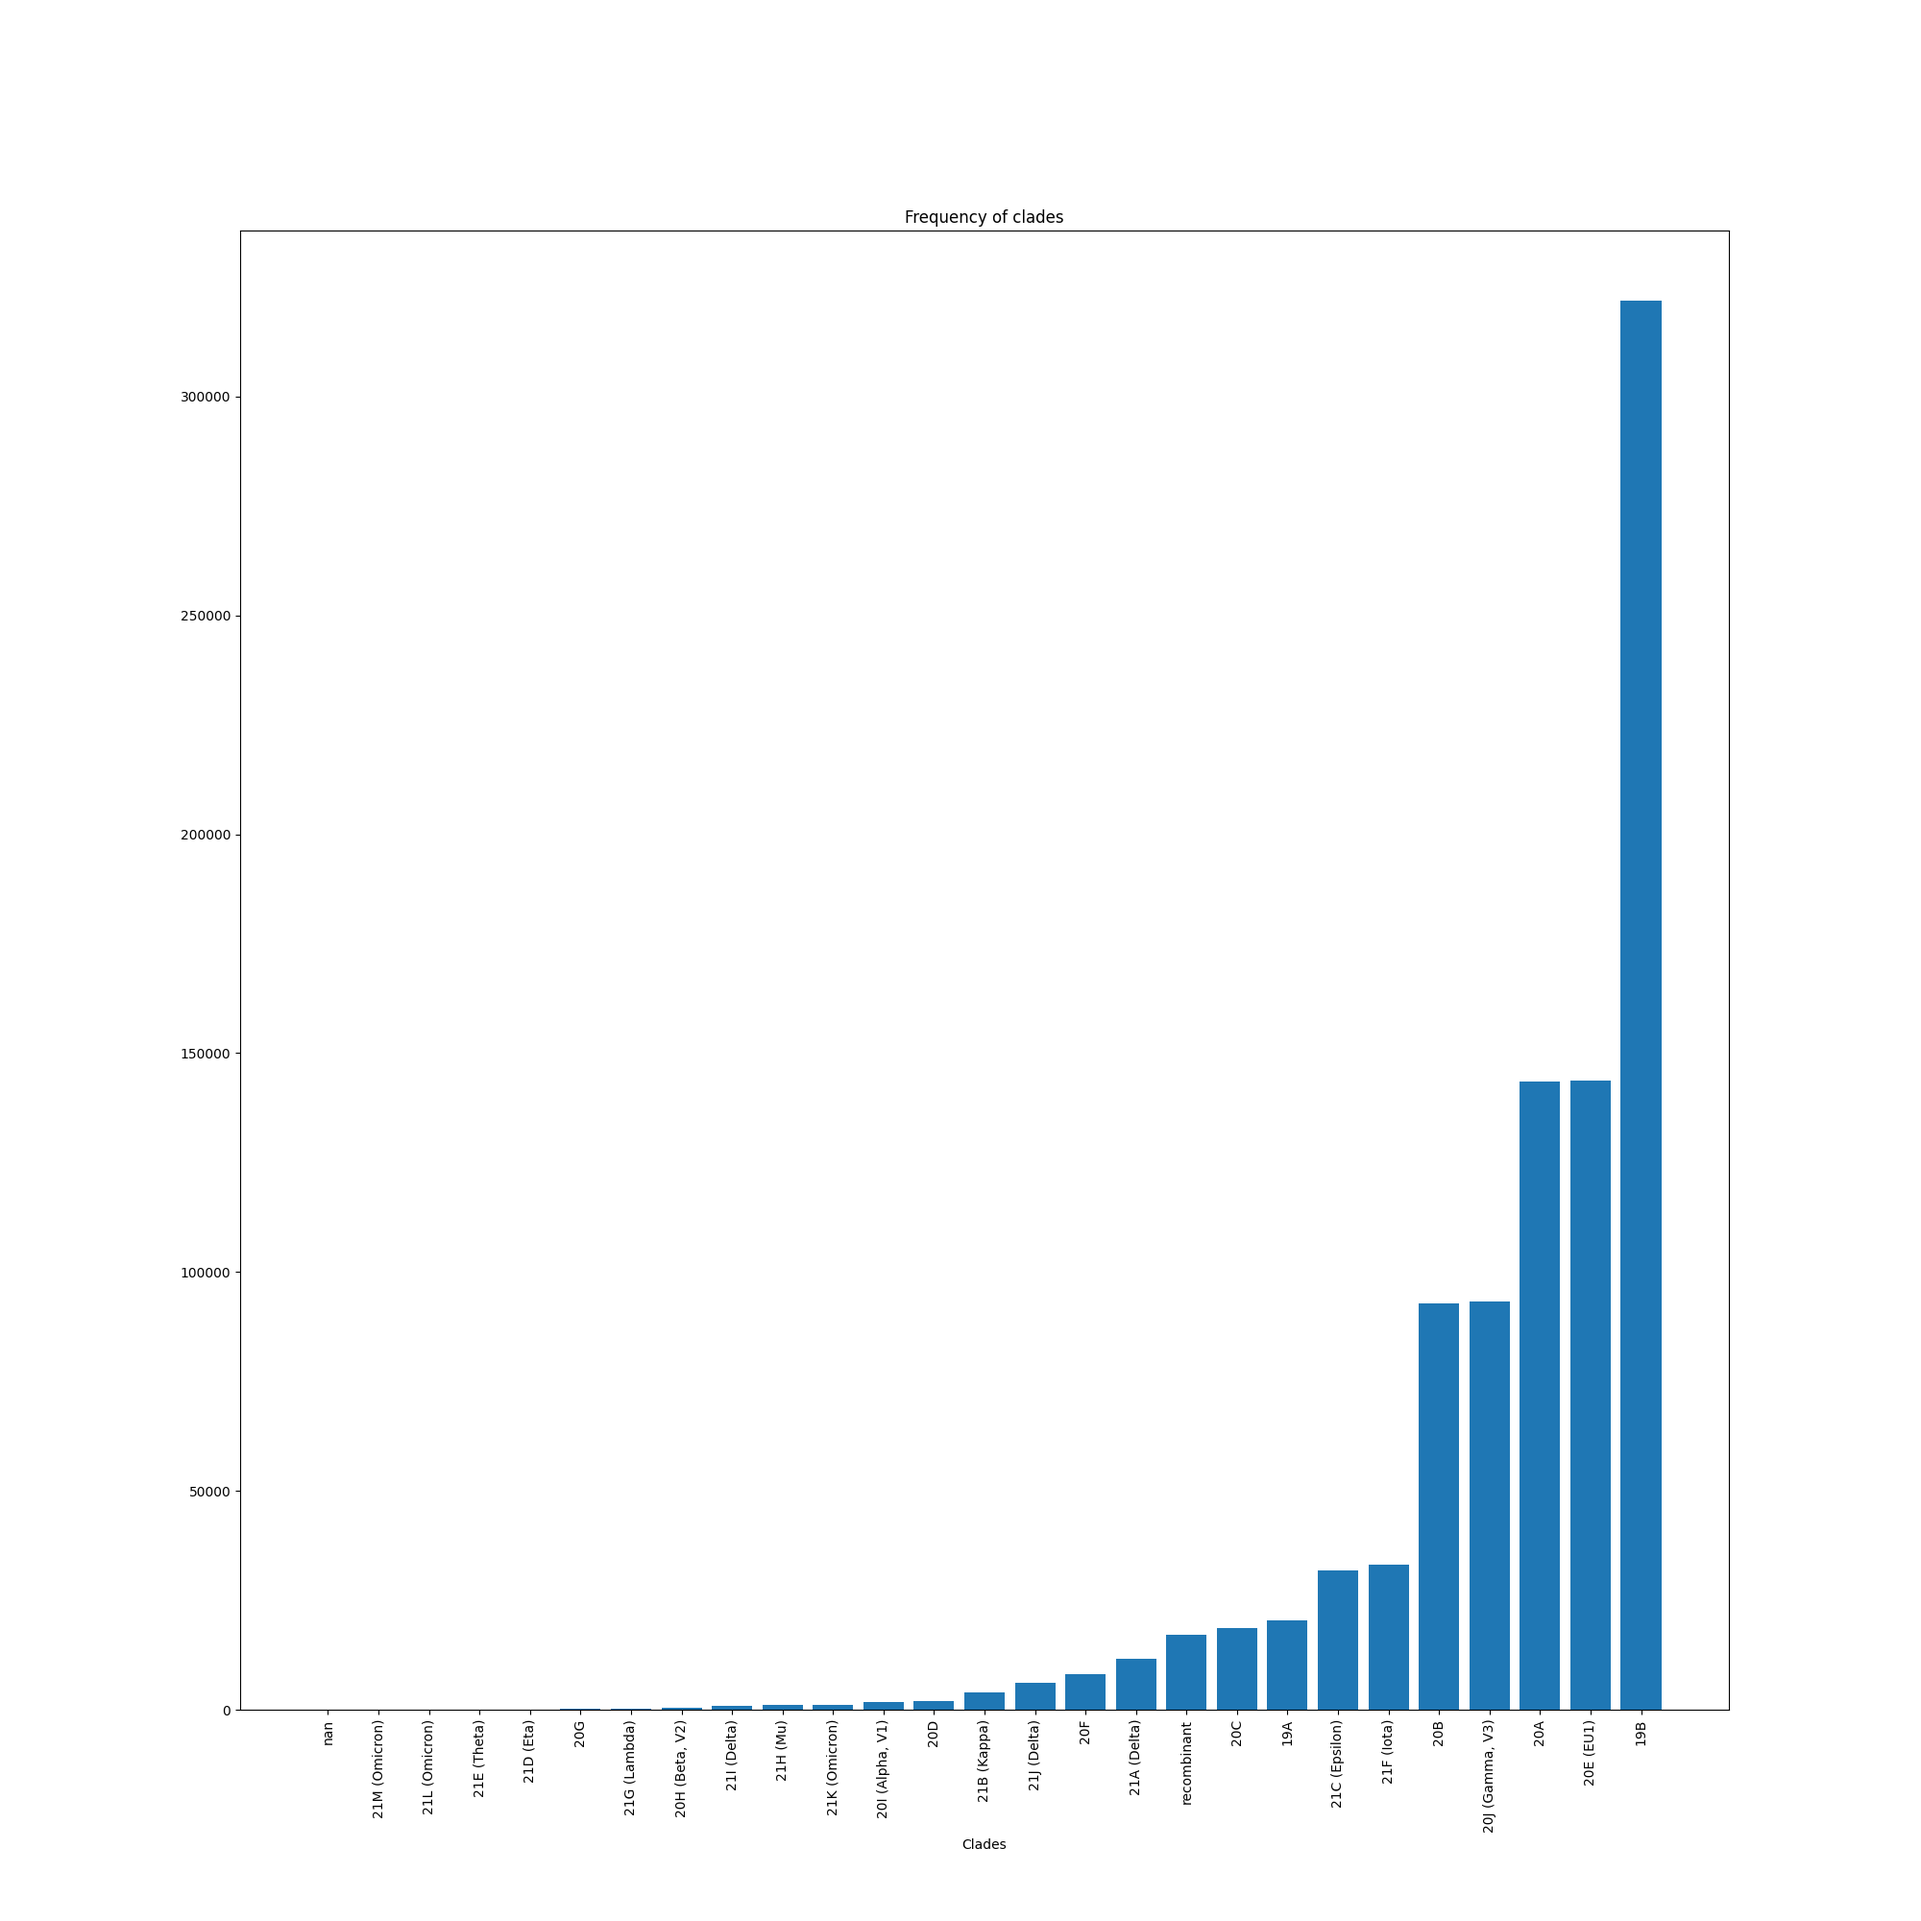
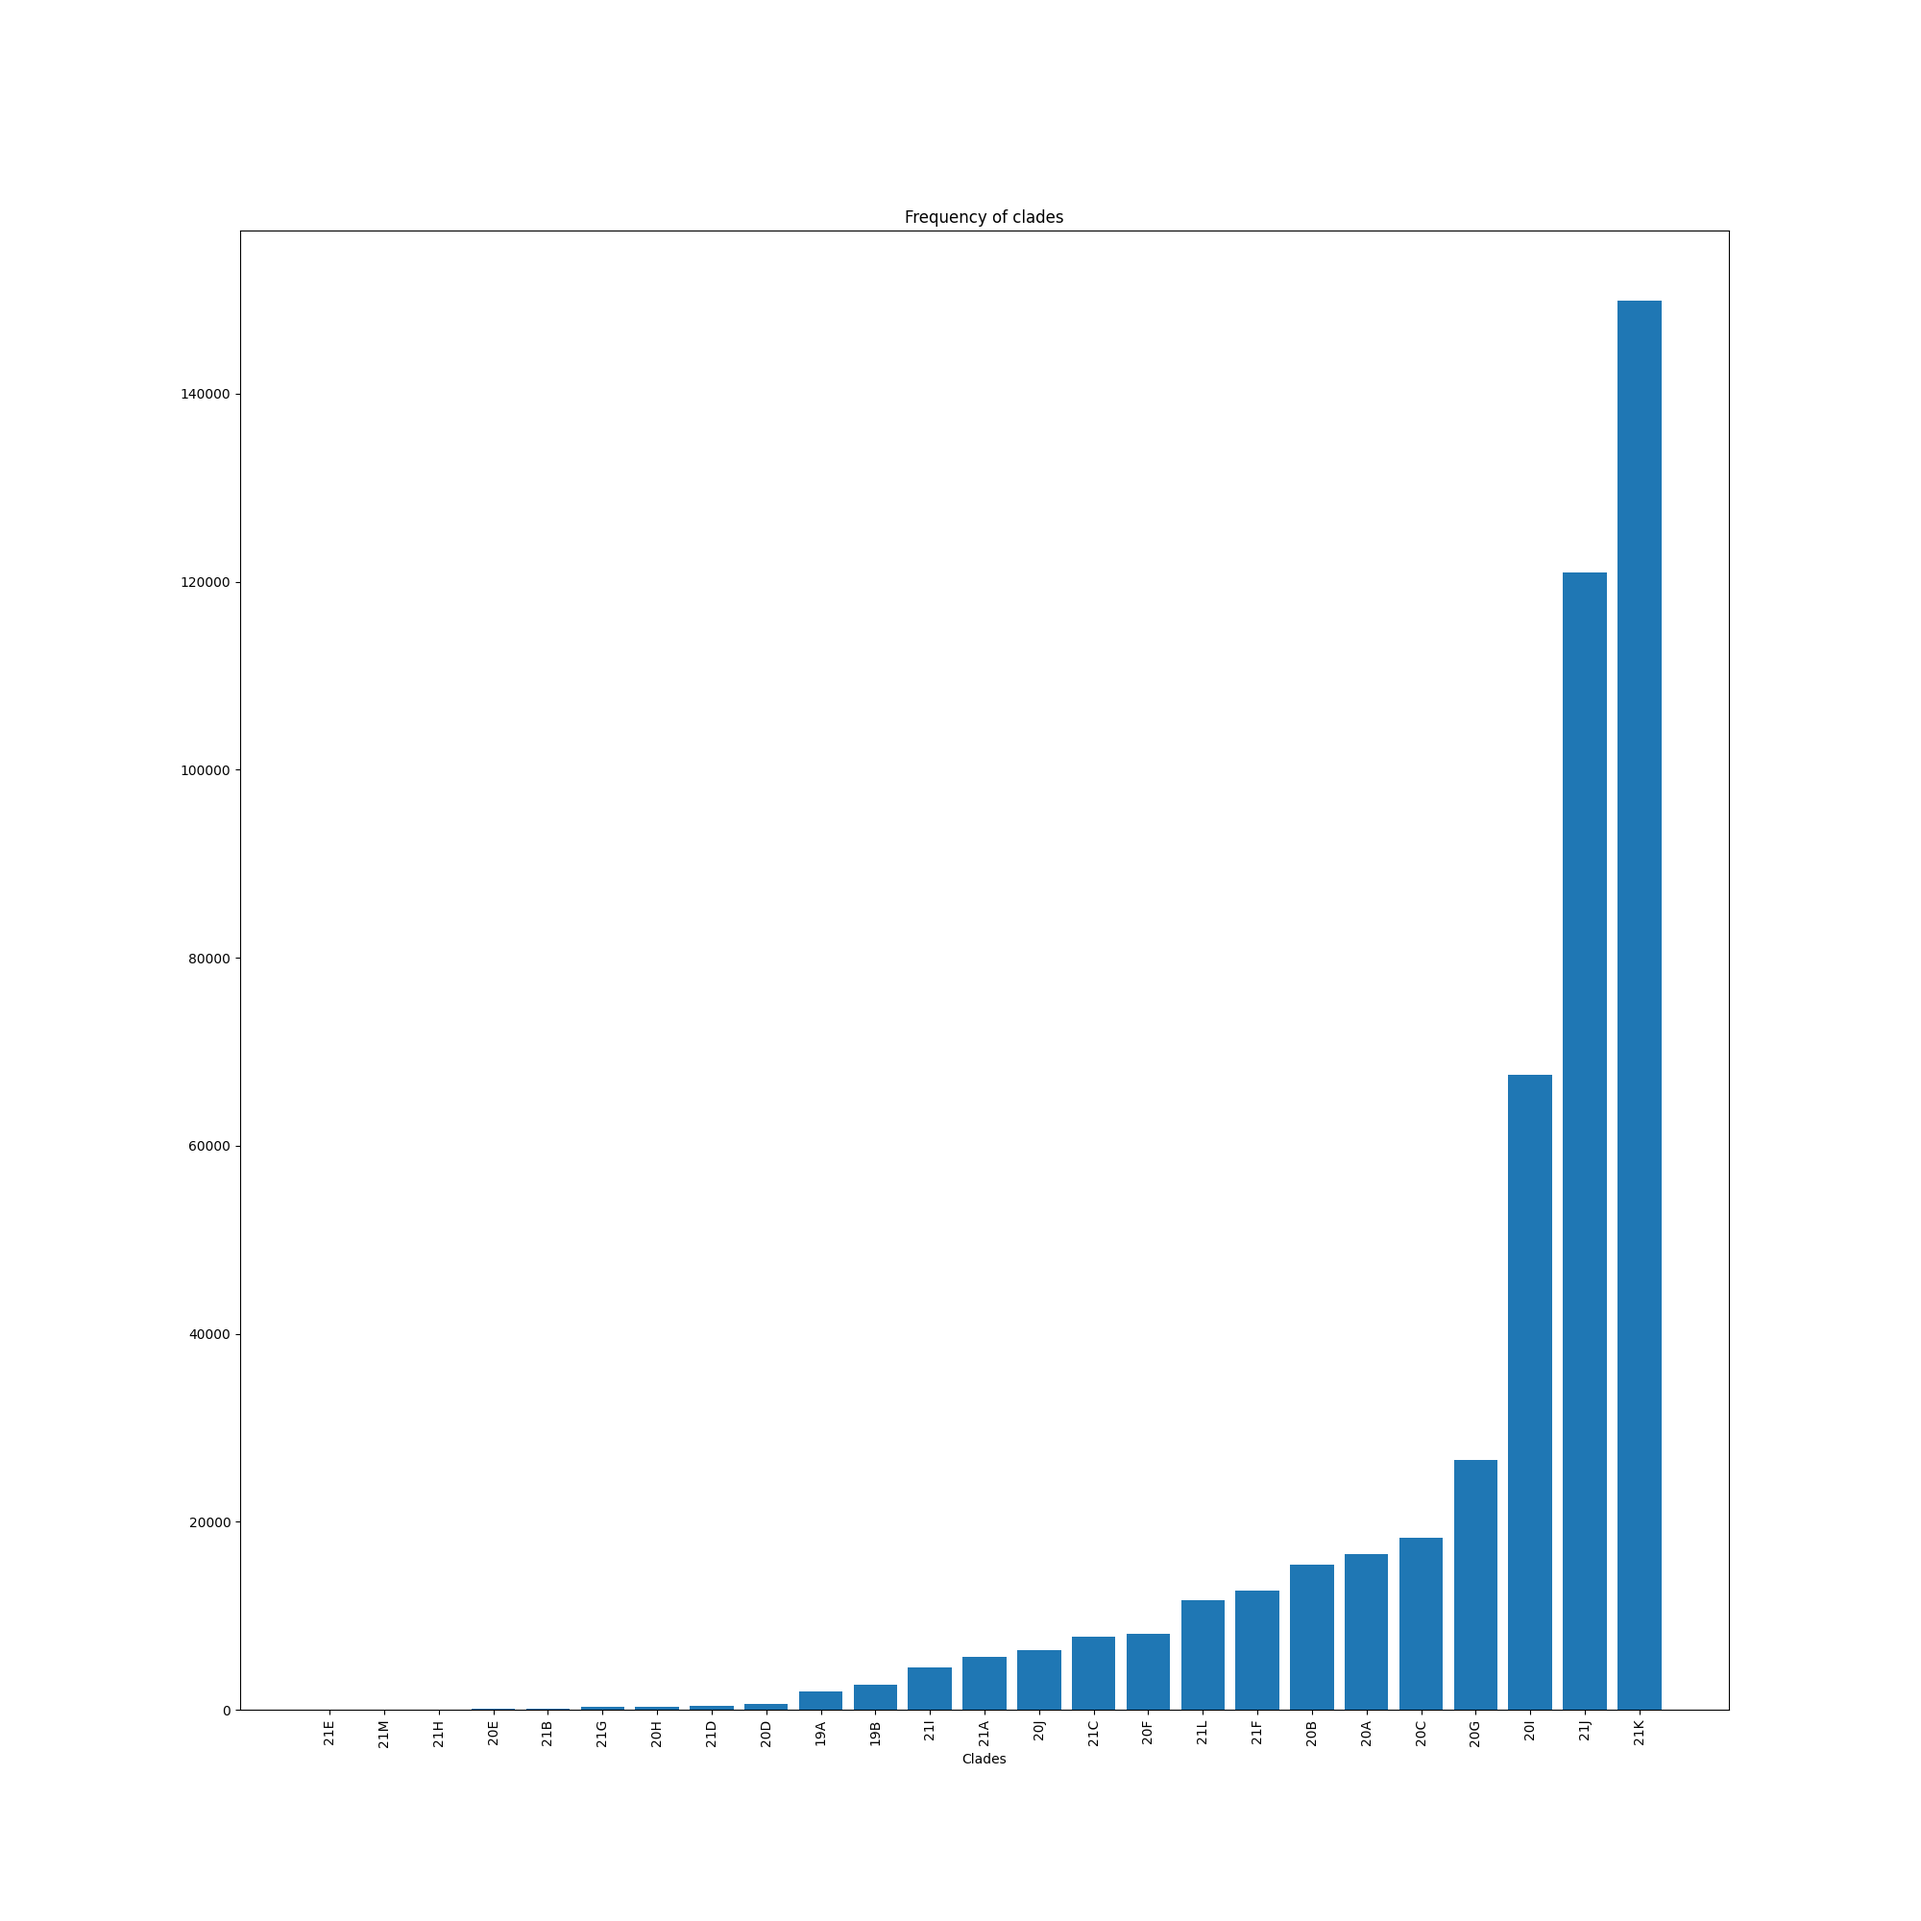
changed names and replot number of clades hist

diff --git a/src/data_preprocessing/create_dataset_files.py b/src/data_preprocessing/create_dataset_files.py
@@ -36,7 +36,7 @@ LIST_OF_CLADES = [
     "21G",
     "21K",
     "21L",
-]  # All clades with number of sequences >18000 were chosen and the rest were droppped
+]
 
 
 def create_merged_data(sequences_file: str, clades_file: str, output_file: str):
@@ -47,6 +47,8 @@ def create_merged_data(sequences_file: str, clades_file: str, output_file: str):
     description_clade_dict = {}
     for line in open(clades_file):
         line_data = line.split("\t")
+        # The strings have an additional pair of quotes which needs to be removed for proper comparision.
+        # The split and indexing operation on the right hand side splits the full clade name (Eg: 21I (Delta)) by space and selects only the alphanumeric clade name
         description_clade_dict[line_data[0].replace('"', "")] = line_data[1].replace('"', "").split(" ")[0]
 
     ds = [description_sequence_dict, description_clade_dict]
@@ -56,11 +58,13 @@ def create_merged_data(sequences_file: str, clades_file: str, output_file: str):
 
     clade_sequence_dict = {}
     for valid_clade in LIST_OF_CLADES:
-        single_clade_sequences = {}
+        single_clade_sequences_dict = {}
         for _seq_description, sequence_clade_tuple in merged_dict.items():
+            # The sequence clade tuple has the sequence in index 0 and the clade in index 1
             if sequence_clade_tuple[1] == valid_clade:
-                single_clade_sequences[sequence_clade_tuple[0]] = ""
-        clade_sequence_dict[valid_clade] = single_clade_sequences
+                # Adding the sequences as keys in a dictionary ensures there is no duplication
+                single_clade_sequences_dict[sequence_clade_tuple[0]] = ""
+        clade_sequence_dict[valid_clade] = single_clade_sequences_dict
 
     for clade, sequences in clade_sequence_dict.items():
         print(f"Number of sequences for clade {clade} after removing duplicates = {len(sequences)}")
@@ -72,8 +76,8 @@ if __name__ == "__main__":
 
     print(Path.cwd())
     # Paths
-    clade_filepath = f"{Path.cwd()}/data/complete_sequences/complete_clades.tabular"
-    input_fasta_filepath = f"{Path.cwd()}/data/complete_sequences/complete_sequences.fasta"
+    clade_filepath = f"{Path.cwd()}/data/cleaned/clades.tabular"
+    input_fasta_filepath = f"{Path.cwd()}/data/cleaned/sequences.fasta"
     claded_sequences_filepath = f"{Path.cwd()}/data/claded_sequences/claded_sequences.json"
 
     # Function call

diff --git a/src/visualization/plot_by_clades.py b/src/visualization/plot_by_clades.py
@@ -6,6 +6,34 @@ from pathlib import Path
 import matplotlib.pyplot as plt
 import pandas as pd
 
+LIST_OF_CLADES = [
+    "19A",
+    "19B",
+    "20A",
+    "20B",
+    "20C",
+    "20E",
+    "21A",
+    "21B",
+    "21D",
+    "21H",
+    "20D",
+    "20F",
+    "20I",
+    "20J",
+    "21M",
+    "21E",
+    "20G",
+    "20H",
+    "21C",
+    "21F",
+    "21I",
+    "21J",
+    "21G",
+    "21K",
+    "21L",
+]
+
 
 def read_clade_tabular(file_path: str) -> dict[str, str]:
     data = pd.read_table(file_path, header=None)
@@ -13,18 +41,14 @@ def read_clade_tabular(file_path: str) -> dict[str, str]:
     clades = data.iloc[:, 1]
     id_clade_dict = {}
     for id, clade in zip(ids, clades):
-        id_clade_dict[id] = clade
+        id_clade_dict[id] = str(clade).replace('"', "").split(" ")[0]
     return id_clade_dict
 
 
 def plot_bar_clades(id_clade_dict: dict[str, str], graph_path: str, stats_path: str):
     clades = list(id_clade_dict.values())
-    unique_clades = []
-    for clade in clades:
-        if clade not in unique_clades:
-            unique_clades.append(clade)
-    number_of_clades_dict = dict.fromkeys(unique_clades)
-    for unique_clade in unique_clades:
+    number_of_clades_dict = dict.fromkeys(LIST_OF_CLADES)
+    for unique_clade in LIST_OF_CLADES:
         number_of_clades_dict[unique_clade] = clades.count(unique_clade)
     number_of_clades_dict = dict(sorted(number_of_clades_dict.items(), key=lambda item: item[1]))
     with open(stats_path, "w") as fp:
@@ -45,7 +69,7 @@ def plot_bar_clades(id_clade_dict: dict[str, str], graph_path: str, stats_path: 
 
 
 if __name__ == "__main__":
-    clade_filepath = f"{Path.cwd()}/data/complete_sequences/complete_clades.tabular"
+    clade_filepath = f"{Path.cwd()}/data/cleaned/clades.tabular"
     plot_name = "clades_all_hist"
     clades_histogram_path = f"{Path.cwd()}/plots/{plot_name}.png"
     id_clade_dict = read_clade_tabular(clade_filepath)

diff --git a/src/data_preprocessing/fasta_file_operations.py b/src/data_preprocessing/fasta_file_operations.py
@@ -7,16 +7,16 @@ from pathlib import Path
 from Bio import SeqIO
 
 
-def create_complete_fasta_file(import_file_path: str, export_file_path: str):
-    fasta_file_with_completed_sequences = open(export_file_path, "w")
-    number_of_complete_sequences = 0
+def create_cleaned_fasta_file(import_file_path: str, export_file_path: str):
+    fasta_file_with_cleaned_sequences = open(export_file_path, "w")
+    number_of_clean_sequences = 0
     for seq_record in SeqIO.parse(import_file_path, "fasta"):
         if check_sequence_completeness(sequence=str(seq_record.seq)):
-            number_of_complete_sequences += 1
-            fasta_file_with_completed_sequences.write(seq_record.format("fasta"))
-            if number_of_complete_sequences % 100000 == 0:
-                print(f"Wrote {number_of_complete_sequences} to file")
-    fasta_file_with_completed_sequences.close()
+            number_of_clean_sequences += 1
+            fasta_file_with_cleaned_sequences.write(seq_record.format("fasta"))
+            if number_of_clean_sequences % 100000 == 0:
+                print(f"Wrote {number_of_clean_sequences} clean sequences to file")
+    fasta_file_with_cleaned_sequences.close()
 
 
 def check_sequence_completeness(sequence: str) -> bool:
@@ -28,8 +28,8 @@ def check_sequence_completeness(sequence: str) -> bool:
 
 if __name__ == "__main__":
     input_fasta_file_path = f"{Path.cwd()}/data/input/genomic.fna"
-    completed_sequences_file_path = f"{Path.cwd()}/data/complete_sequences/complete_sequences.fasta"
-    create_complete_fasta_file(
+    sequences_file_path = f"{Path.cwd()}/data/cleaned/sequences.fasta"
+    create_cleaned_fasta_file(
         import_file_path=input_fasta_file_path,
-        export_file_path=completed_sequences_file_path,
+        export_file_path=sequences_file_path,
     )

diff --git a/src/visualization/plot_by_country_year.py b/src/visualization/plot_by_country_year.py
@@ -108,7 +108,7 @@ def read_fasta_file_and_return_length(path: str) -> int:
 
 
 if __name__ == "__main__":
-    input_fasta_file_path = f"{Path.cwd()}/data/complete_sequences/complete_sequences.fasta"
+    input_fasta_file_path = f"{Path.cwd()}/data/cleaned/sequences.fasta"
     histogram_path = f"{Path.cwd()}/plots/countrywise_wo_year.png"
     countrywise_fasta_path = f"{Path.cwd()}/data/countrywise_split"
     countrywise_sequences_dictionary = split_sequences_by_country(import_file_path=input_fasta_file_path)

diff --git a/src/data_preprocessing/plot_sequence_lengths_hist.py b/src/data_preprocessing/plot_sequence_lengths_hist.py
@@ -31,5 +31,5 @@ def plot_seq_len_hist(inp_file: str, hist_path: str):
 
 if __name__ == "__main__":
     histogram_path = f"{Path.cwd()}/plots/sequence_length_plot.png"
-    completed_sequences_file_path = f"{Path.cwd()}/data/complete_sequences/complete_sequences.fasta"
-    plot_seq_len_hist(inp_file=completed_sequences_file_path, hist_path=histogram_path)
+    sequences_file_path = f"{Path.cwd()}/data/cleaned/sequences.fasta"
+    plot_seq_len_hist(inp_file=sequences_file_path, hist_path=histogram_path)

diff --git a/src/main.py b/src/main.py
@@ -1,5 +1,5 @@
 from pathlib import Path
-from data_preprocessing.fasta_file_operations import create_complete_fasta_file
+from data_preprocessing.fasta_file_operations import create_cleaned_fasta_file
 from visualization.plot_by_country_year import (
     split_sequences_by_country,
     write_fasta_file_by_country,
